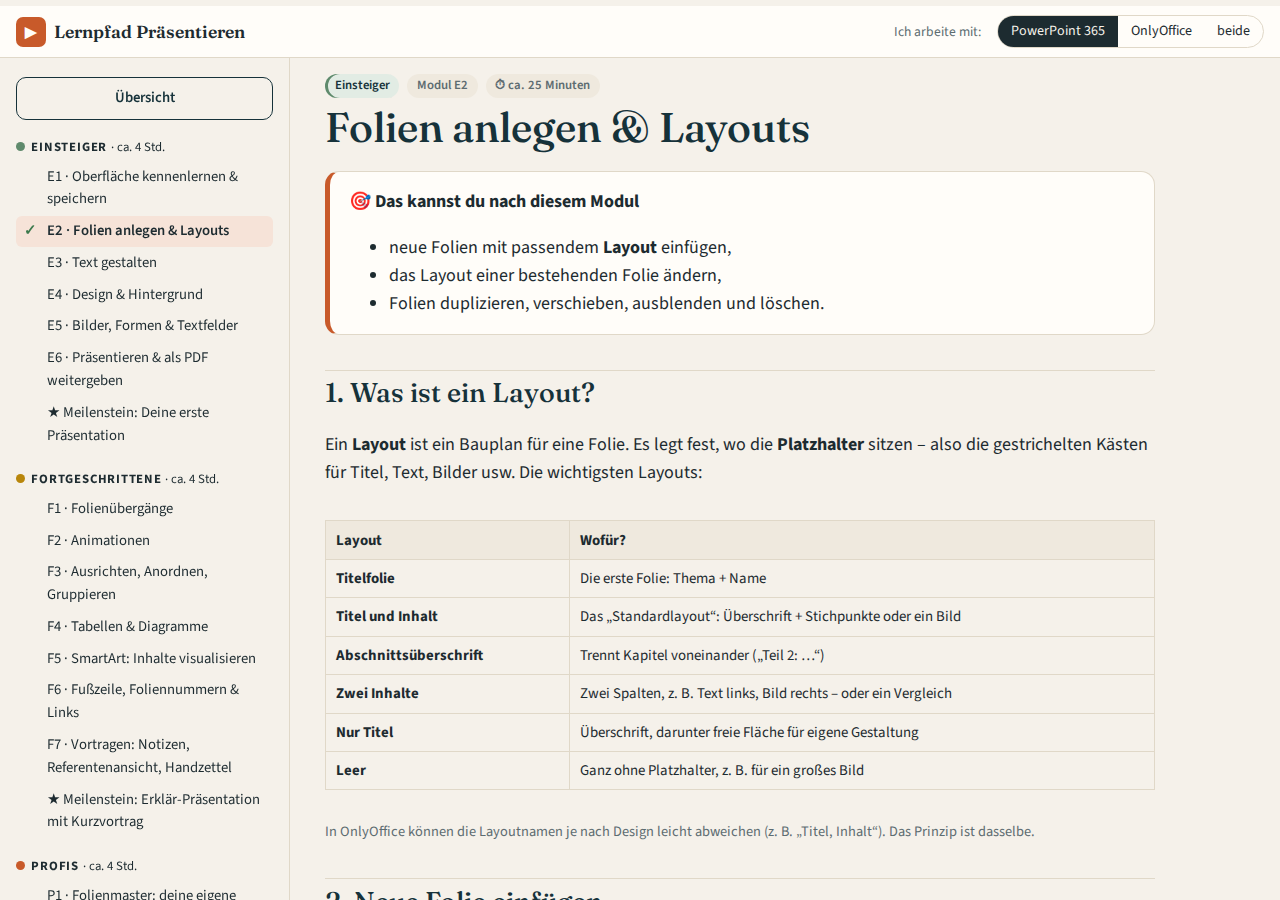
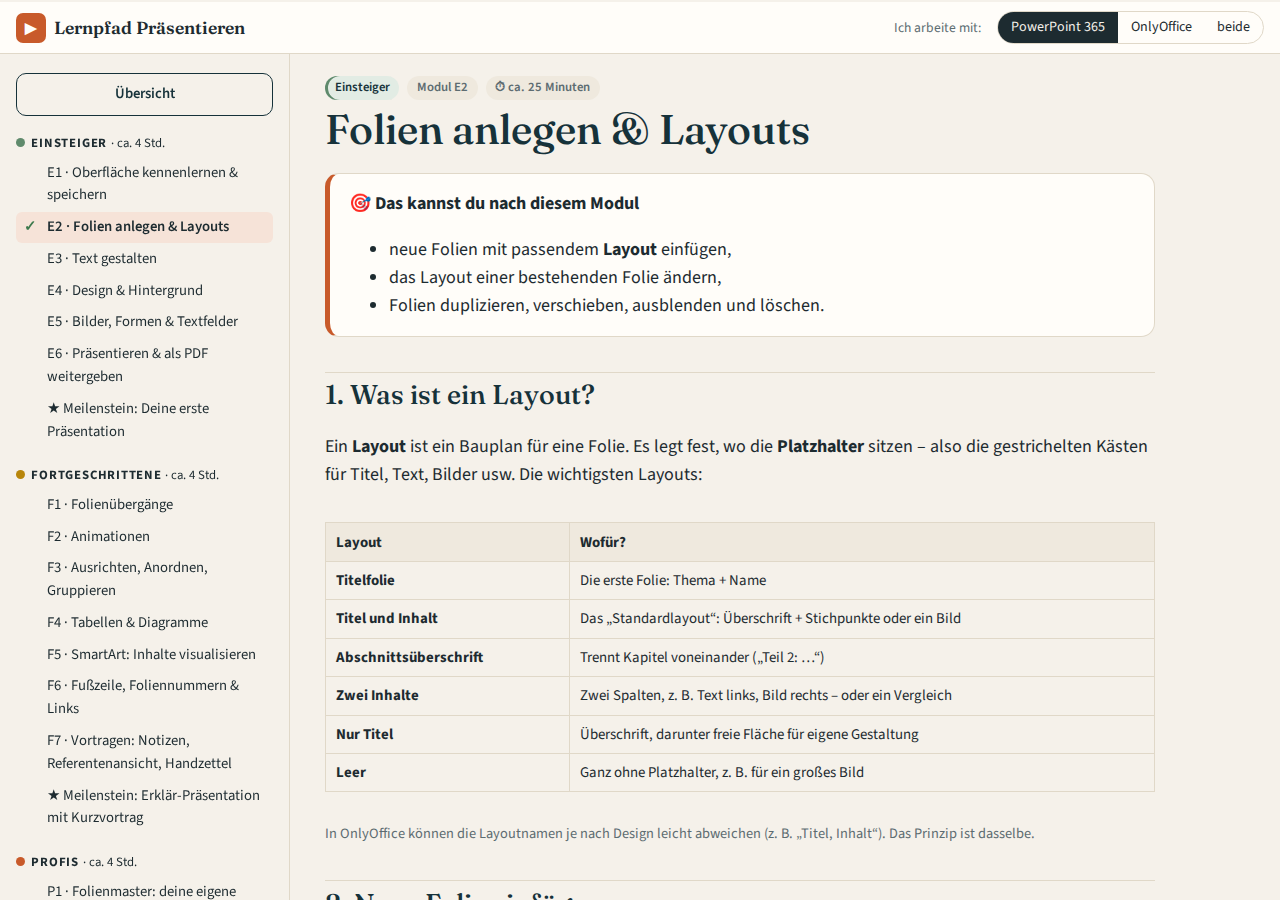
Dateinamen-Schema der Lehrkraft übernehmen
Schema „Ordner\Jahr-Monat-Tag Titel_Typ[_V2].ext“, bei Abgaben mit
„_Nachname,Vorname“. Angepasst in E1 (Erklärkasten mit farbiger
Aufschlüsselung, Aufgabe, Checkliste, Kurz-Check), E6, Meilenstein
Einsteiger und Spickzettel.

Claude-Session: https://claude.ai/code/session_01FGvXQctSkkwBJTGC7bFYXy

diff --git a/e1-oberflaeche.html b/e1-oberflaeche.html
@@ -129,10 +129,26 @@
 </div>
 
 <div class="box design">
-  <div class="box-title">✏ Gute Dateinamen</div>
-  <p>Ein Dateiname sollte auch in drei Monaten noch verraten, was drin ist. Bewährt hat sich:<br>
-  <code>Nachname_Thema_Datum</code> → z.&nbsp;B. <code>Yilmaz_Lieblingsort_2026-10-05.pptx</code></p>
-  <p>Vermeide Leerzeichen und Sonderzeichen wie <code>/ \ : * ? " &lt; &gt; |</code> – manche Systeme kommen damit nicht klar.</p>
+  <div class="box-title">✏ Wie benenne ich Dateien sinnvoll?</div>
+  <p>Ein Dateiname sollte auch in drei Monaten noch verraten, was drin ist. Wir benutzen immer dieses Schema:</p>
+  <div class="fn-demo">
+    <div><span class="fn-ordner">Präsentieren\</span></div>
+    <div class="fn-line"><span class="fn-datum">2026-10-05</span> <span class="fn-titel">Mein Lieblingsort</span>_<span class="fn-typ">Präs</span>.pptx</div>
+    <div class="fn-line"><span class="fn-datum">2026-10-12</span> <span class="fn-titel">Mein Lieblingsort</span>_<span class="fn-typ">Präs</span>_<span class="fn-version">V2</span>.pptx</div>
+  </div>
+  <ul class="fn-legend">
+    <li><span class="fn-ordner">Ordner</span> – z.&nbsp;B. für die Unterteilung in Fächer oder Themen</li>
+    <li><span class="fn-datum">Datum im Format Jahr-Monat-Tag</span> – ganz vorne</li>
+    <li><span class="fn-titel">Aussagekräftiger Titel</span> – das Thema</li>
+    <li><span class="fn-typ">Typ</span> – z.&nbsp;B. <code>Präs</code>, <code>Handout</code>, <code>Hausarbeit</code></li>
+    <li><span class="fn-version">Version</span> – ab Version 2 dazuschreiben (<code>_V2</code>, <code>_V3</code> …), sonst geht der Überblick verloren</li>
+  </ul>
+  <details>
+    <summary>Warum eigentlich Jahr-Monat-Tag?</summary>
+    <p>Weil der Computer Dateinamen alphabetisch sortiert – und bei <code>2026-10-05</code> stimmt die alphabetische Reihenfolge automatisch mit der zeitlichen überein. Bei <code>05.10.2026</code> würde der 5. Oktober vor dem 12. September stehen, egal in welchem Jahr.</p>
+  </details>
+  <p><strong>Abgabe?</strong> Dann kommt immer dein Name mit in den Dateinamen: <code><span class="fn-datum">2026-10-12</span> <span class="fn-titel">Mein Lieblingsort</span>_<span class="fn-typ">Präs</span>_<span class="fn-version">Yilmaz,Mia</span>.pdf</code></p>
+  <p style="font-size:.9rem;color:var(--muted)">Vermeide Sonderzeichen wie <code>/ \ : * ? " &lt; &gt; |</code> – die sind in Dateinamen nicht erlaubt.</p>
 </div>
 
 <h2>4. Dein Thema für die Einsteiger-Stufe</h2>
@@ -154,11 +170,12 @@
     <li>Lege eine neue, leere Präsentation an.</li>
     <li>Klicke in das obere Feld der ersten Folie („Titel hinzufügen“ bzw. „Zum Hinzufügen eines Titels klicken“) und schreibe dein Thema hinein.</li>
     <li>Klicke in das untere Feld und schreibe deinen Namen hinein.</li>
-    <li>Speichere die Datei mit einem guten Dateinamen (siehe oben) in deinem Kursordner.</li>
+    <li>Lege in deinem Kursordner einen Ordner <code>Präsentieren</code> an und speichere die Datei dort nach unserem Schema, z.&nbsp;B. <code>2026-10-05 Mein Lieblingsort_Präs.pptx</code>.</li>
   </ol>
   <div class="check-title">Selbstcheck</div>
   <ul class="check">
-    <li>Meine Datei hat einen Namen nach dem Muster <code>Nachname_Thema_Datum</code>.</li>
+    <li>Mein Dateiname folgt dem Schema <code>Jahr-Monat-Tag Titel_Typ.pptx</code>.</li>
+    <li>Die Datei liegt in einem passenden Ordner.</li>
     <li>Ich weiß, in welchem Ordner meine Datei liegt, und finde sie wieder.</li>
     <li>Auf Folie 1 stehen Thema und Name.</li>
   </ul>
@@ -201,8 +218,13 @@
   </div>
   <div class="qa" data-right="2">
     <p class="q">Welcher Dateiname ist am besten?</p>
-    <ol><li><code>Präsentation1.pptx</code></li><li><code>Meyer_Hunde_2026-10-05.pptx</code></li><li><code>neu neu FINAL (2).pptx</code></li></ol>
-    <p class="fb" data-ok="Richtig: Name, Thema und Datum – eindeutig und ohne Leerzeichen." data-no="Schau nochmal auf den Tipp „Gute Dateinamen“."></p>
+    <ol><li><code>Präsentation1.pptx</code></li><li><code>2026-10-05 Hunde als Haustiere_Präs.pptx</code></li><li><code>neu neu FINAL (2).pptx</code></li><li><code>05.10.26 hunde.pptx</code></li></ol>
+    <p class="fb" data-ok="Richtig: Datum (Jahr-Monat-Tag), aussagekräftiger Titel und Typ – genau unser Schema." data-no="Schau nochmal auf den Kasten „Wie benenne ich Dateien sinnvoll?“."></p>
+  </div>
+  <div class="qa" data-right="3">
+    <p class="q">Du gibst dein Handout als PDF bei deiner Lehrkraft ab. Welcher Name passt?</p>
+    <ol><li><code>2026-10-12 Hunde als Haustiere_Handout.docx</code></li><li><code>Handout neu_Mia.pdf</code></li><li><code>2026-10-12 Hunde als Haustiere_Handout_Yilmaz,Mia.pdf</code></li></ol>
+    <p class="fb" data-ok="Genau – bei einer Abgabe kommt immer dein Name mit in den Dateinamen." data-no="Denk dran: Bei einer Abgabe gehört immer dein Name in den Dateinamen – im Schema hinten dran."></p>
   </div>
 </div>
 

diff --git a/em-meilenstein.html b/em-meilenstein.html
@@ -31,7 +31,7 @@
     <li>mindestens <strong>eine Form oder ein Textfeld</strong>, das du selbst gestaltet hast,</li>
     <li><strong>Notizen</strong> zu jeder Inhaltsfolie.</li>
   </ul>
-  <p><strong>Abgabe:</strong> die <code>.pptx</code>-Datei <em>und</em> die <code>.pdf</code>-Datei – so, wie es deine Lehrkraft vorgibt (z.&nbsp;B. Kursordner, Lernplattform).</p>
+  <p><strong>Abgabe:</strong> die <code>.pptx</code>-Datei <em>und</em> die <code>.pdf</code>-Datei, beide mit deinem Namen im Dateinamen (z.&nbsp;B. <code>2026-10-19 Mein Lieblingsort_Präs_Yilmaz,Mia.pdf</code>) – so, wie es deine Lehrkraft vorgibt (z.&nbsp;B. Kursordner, Lernplattform).</p>
 </div>
 
 <h2>Checkliste vor der Abgabe</h2>
@@ -41,7 +41,7 @@
     <li>Jede Folie hat eine Überschrift im Titel-Platzhalter.</li>
     <li>Alle Folien nutzen dasselbe Design.</li>
     <li>Kein Bild ist verzerrt, unscharf oder verpixelt.</li>
-    <li>Die Datei heißt <code>Nachname_Thema_Datum</code>.</li>
+    <li>Die Dateinamen folgen unserem Schema: <code>Jahr-Monat-Tag Titel_Präs.pptx</code> bzw. für die Abgabe <code>Jahr-Monat-Tag Titel_Präs_Nachname,Vorname.pdf</code>.</li>
     <li>Die PDF ist vollständig und sieht richtig aus.</li>
   </ul>
   <div class="check-title">Gestaltung</div>
@@ -69,7 +69,7 @@
   <tr><td>Design &amp; Farbe</td><td>einheitliches Design, guter Kontrast</td><td>Farben und Design passen erkennbar zum Thema</td></tr>
   <tr><td>Bilder &amp; Formen</td><td>≥ 2 passende Bilder, nicht verzerrt, eigene Form/Textfeld</td><td>Bilder tragen die Aussage (nicht nur Deko), sauber zugeschnitten</td></tr>
   <tr><td>Urheberrecht</td><td>alle Bilder erlaubt, Quellen angegeben</td><td>vollständige, einheitliche Quellenangaben</td></tr>
-  <tr><td>Datei &amp; Abgabe</td><td>richtiger Dateiname, PPTX + PDF abgegeben</td><td>—</td></tr>
+  <tr><td>Datei &amp; Abgabe</td><td>Dateinamen nach Schema (Datum, Titel, Typ, bei Abgabe Name), PPTX + PDF abgegeben</td><td>—</td></tr>
 </table>
 </div>
 

diff --git a/assets/css/style.css b/assets/css/style.css
@@ -402,3 +402,14 @@ footer.site { max-width: 1320px; margin: 0 auto; padding: 1.5rem 2rem 2.5rem; co
 /* Übungsdateien */
 .download { border-left: 5px solid var(--lv-f); background: var(--lv-f-soft); }
 .download .btn { margin-top: .2rem; }
+
+/* Dateinamen-Schema (Farben wie im Tafelbild) */
+:root { --fn-ordner: #2e8b3a; --fn-datum: #c62828; --fn-titel: #1565c0; --fn-typ: #c77700; }
+@media (prefers-color-scheme: dark) { :root { --fn-ordner: #7fd18a; --fn-datum: #ff8a80; --fn-titel: #82b1ff; --fn-typ: #ffb74d; } }
+.fn-ordner { color: var(--fn-ordner); font-weight: 700; }
+.fn-datum { color: var(--fn-datum); font-weight: 700; }
+.fn-titel { color: var(--fn-titel); font-weight: 700; }
+.fn-typ, .fn-version { color: var(--fn-typ); font-weight: 700; }
+.fn-demo { font-family: ui-monospace, Consolas, monospace; font-size: .95rem; background: var(--surface); border: 1px solid var(--border); border-radius: 8px; padding: .7rem .9rem; margin: .5rem 0; overflow-x: auto; }
+.fn-demo .fn-line { padding-left: 1.5rem; white-space: nowrap; }
+.fn-legend { margin: .4rem 0 .6rem; }

diff --git a/e6-praesentieren.html b/e6-praesentieren.html
@@ -127,13 +127,14 @@
 <div class="box task basis">
   <div class="task-head"><span class="lvl basis">Basis</span><h3>3 · PDF erstellen und prüfen</h3><span class="lvl time">5 min</span></div>
   <ol class="steps">
-    <li>Speichere deine Präsentation als PDF (gleicher Dateiname, nur Endung <code>.pdf</code>).</li>
+    <li>Speichere deine Präsentation als PDF. Weil du sie abgeben wirst, kommt dein Name mit in den Dateinamen: z.&nbsp;B. <code>2026-10-19 Mein Lieblingsort_Präs_Yilmaz,Mia.pdf</code> (siehe <a href="e1-oberflaeche.html">E1</a>).</li>
     <li>Öffne die PDF und blättere sie durch.</li>
   </ol>
   <ul class="check">
     <li>Die PDF ist vollständig (alle Folien, keine ausgeblendeten).</li>
     <li>Schriften und Bilder sehen genauso aus wie in der Präsentation.</li>
     <li>Ich habe jetzt zwei Dateien: <code>.pptx</code> (zum Bearbeiten) und <code>.pdf</code> (zum Weitergeben).</li>
+    <li>Der PDF-Name folgt unserem Schema und enthält meinen Namen (<code>Nachname,Vorname</code>).</li>
   </ul>
 </div>
 

diff --git a/regeln.html b/regeln.html
@@ -82,6 +82,17 @@
   </ul>
 </div>
 
+<div class="box design">
+  <div class="box-title">7 · Dateien sinnvoll benennen</div>
+  <p><code><span class="fn-ordner">Fach\</span><span class="fn-datum">Jahr-Monat-Tag</span> <span class="fn-titel">Aussagekräftiger Titel</span>_<span class="fn-typ">Typ</span>_<span class="fn-version">V2</span>.pptx</code></p>
+  <ul>
+    <li><strong>Datum</strong> immer im Format Jahr-Monat-Tag vorne – dann sortiert der Computer automatisch richtig.</li>
+    <li><strong>Typ</strong>: <code>Präs</code>, <code>Handout</code>, <code>Hausarbeit</code> …</li>
+    <li><strong>Version</strong> ab V2 dazuschreiben.</li>
+    <li><strong>Abgabe:</strong> immer den Namen mit in den Dateinamen: <code>…_Präs_Nachname,Vorname.pdf</code></li>
+  </ul>
+</div>
+
 <div class="box tip">
   <div class="box-title">⌨ Die wichtigsten Tasten</div>
   <div class="table-wrap">
